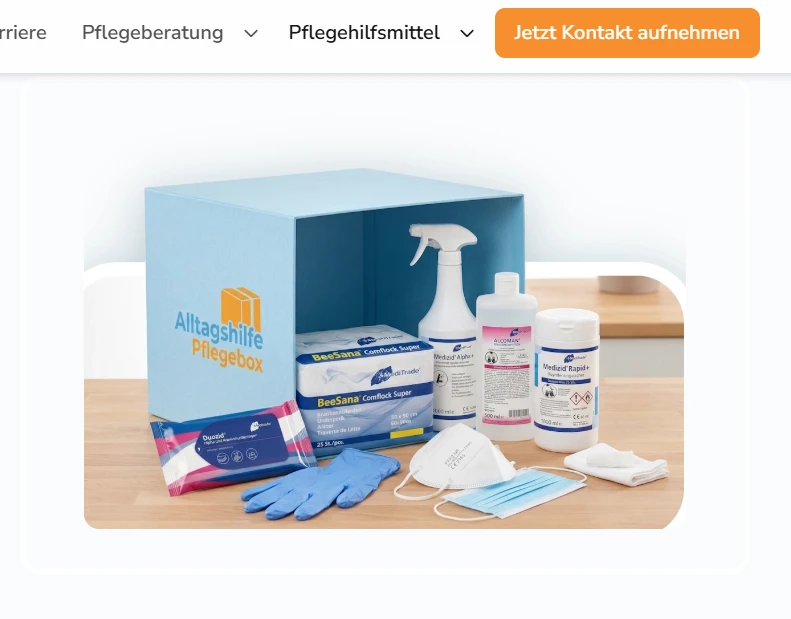
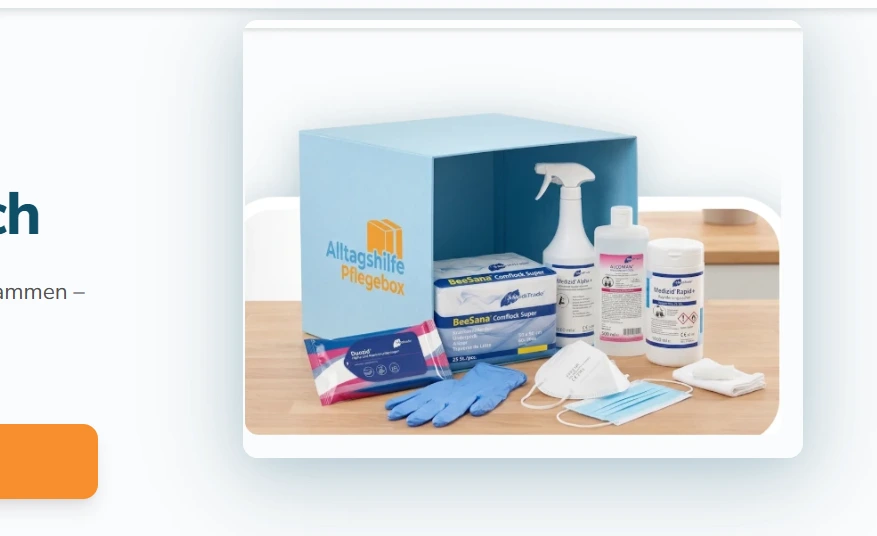
Pflegebox-Hero: neues Flatten-WebP, 25% größer, ohne UI-Rahmen; Konfigurator ohne Box-Bild
Made-with: Cursor

diff --git a/app/pflegebox/page.tsx b/app/pflegebox/page.tsx
@@ -7,10 +7,7 @@ export const metadata: Metadata = {
   description: `Pflegebox-Konfigurator – ${siteConfig.name}. Wählen Sie Ihre Produkte für die Pflegebox.`,
 };
 
-/**
- * Drop-Shadow nur auf einem Wrapper **ohne** overflow-hidden – sonst wird der Schatten am Bild abgeschnitten.
- * Etwas weicher/größer als zuvor, damit er klar über die Motivkante hinaus wirkt.
- */
+/** Schatten am Motiv; kein zusätzlicher sichtbarer Rahmen um die Grafik (natives Bild inkl. weißem Innenrand). */
 const heroImageShadowWrapperClass =
   "[filter:drop-shadow(0_16px_36px_rgba(15,79,104,0.22))_drop-shadow(0_6px_18px_rgba(15,79,104,0.14))]";
 
@@ -24,23 +21,18 @@ export default function PflegeboxPage() {
   return (
     <div id="pflegebox-root" className="min-w-0 w-full max-w-full bg-[#f1f9fb]">
       <div className="flex w-full justify-center px-4 pb-2 pt-4 sm:pb-3 sm:pt-5">
-        <div className="flex w-full max-w-xl justify-center bg-[#f1f9fb] px-2 pb-10 pt-2 sm:pb-12">
-          {/* Außen: Schatten; innen: overflow-hidden + Zoom croppt weißen Bildrand im Asset */}
-          <div
-            className={`mx-auto box-border max-w-full p-4 sm:p-6 ${heroImageShadowWrapperClass}`}
-          >
-            <div className="relative mx-auto aspect-[791/619] h-[min(42vh,320px)] w-auto max-w-full overflow-hidden rounded-2xl bg-[#f1f9fb]">
-              {/* eslint-disable-next-line @next/next/no-img-element -- statische Asset-URL wie Startseiten-Hero */}
-              <img
-                src={PFLEGEBOX_HERO_SRC}
-                alt="Pflegebox – Abbildung der Produktbox"
-                width={791}
-                height={619}
-                decoding="async"
-                fetchPriority="high"
-                className="absolute inset-0 h-full w-full origin-center scale-[1.26] object-cover object-center"
-              />
-            </div>
+        <div className="flex w-full max-w-2xl justify-center bg-[#f1f9fb] px-2 pb-10 pt-2 sm:pb-12">
+          <div className={`mx-auto box-border max-w-full p-4 sm:p-8 ${heroImageShadowWrapperClass}`}>
+            {/* eslint-disable-next-line @next/next/no-img-element -- statische Asset-URL wie Startseiten-Hero */}
+            <img
+              src={PFLEGEBOX_HERO_SRC}
+              alt="Pflegebox – Abbildung der Produktbox"
+              width={877}
+              height={536}
+              decoding="async"
+              fetchPriority="high"
+              className="mx-auto block h-auto max-h-[min(52.5vh,400px)] w-auto max-w-full object-contain object-center"
+            />
           </div>
         </div>
       </div>

diff --git a/components/pflegehilfsmittel/KostenfreiePflegehilfsmittelLanding.tsx b/components/pflegehilfsmittel/KostenfreiePflegehilfsmittelLanding.tsx
@@ -3,7 +3,7 @@ import Link from "next/link";
 import { siteConfig } from "@/config/site";
 import { PFLEGEBOX_KONFIGURATOR_PAGE } from "@/lib/pflegebox-konfigurator-path";
 
-/** Schatten auf Wrapper außerhalb von overflow-hidden, sonst Abschneiden am Bild. */
+/** Schatten am Motiv; kein zusätzlicher Kartenrahmen um die Hero-Grafik. */
 const heroImageShadowWrapperClass =
   "[filter:drop-shadow(0_16px_36px_rgba(15,79,104,0.22))_drop-shadow(0_6px_18px_rgba(15,79,104,0.14))]";
 
@@ -70,22 +70,20 @@ export function KostenfreiePflegehilfsmittelLanding() {
           </div>
 
           <div className="w-full lg:w-1/2">
-            <div className="rounded-2xl bg-[#fafbfc] px-2 pb-10 pt-2 sm:pb-12">
+            <div className="bg-[#fafbfc] px-2 pb-10 pt-2 sm:pb-12">
               <div
-                className={`mx-auto box-border flex max-w-full justify-center p-4 sm:p-5 ${heroImageShadowWrapperClass}`}
+                className={`mx-auto box-border flex max-w-full justify-center p-4 sm:p-6 ${heroImageShadowWrapperClass}`}
               >
-                <div className="relative aspect-[791/619] h-[min(42vh,340px)] w-auto max-w-full overflow-hidden rounded-xl bg-[#fafbfc] lg:h-[min(48vh,380px)]">
-                  {/* eslint-disable-next-line @next/next/no-img-element -- statische Asset-URL, konsistent mit /pflegebox */}
-                  <img
-                    src={KOSTENFREI_HERO_IMG}
-                    alt="Pflegebox – Abbildung der Produktbox"
-                    width={791}
-                    height={619}
-                    decoding="async"
-                    fetchPriority="high"
-                    className="absolute inset-0 h-full w-full origin-center scale-[1.26] object-cover object-center"
-                  />
-                </div>
+                {/* eslint-disable-next-line @next/next/no-img-element -- statische Asset-URL, konsistent mit /pflegebox */}
+                <img
+                  src={KOSTENFREI_HERO_IMG}
+                  alt="Pflegebox – Abbildung der Produktbox"
+                  width={877}
+                  height={536}
+                  decoding="async"
+                  fetchPriority="high"
+                  className="mx-auto block h-auto max-h-[min(52.5vh,425px)] w-auto max-w-full object-contain object-center lg:max-h-[min(60vh,475px)]"
+                />
               </div>
             </div>
           </div>

diff --git a/Konfigurator/style.css b/Konfigurator/style.css
@@ -239,7 +239,7 @@ html.kfg-embed .hero-overlay {
 }
 
 .layout > .panel:first-of-type > h2 {
-  min-height: 141px;
+  min-height: 0;
   display: flex;
   align-items: center;
 }
@@ -1095,24 +1095,11 @@ html.kfg-embed .hero-overlay {
 
 .box-title-row {
   display: flex;
+  flex-wrap: wrap;
   align-items: center;
   justify-content: flex-start;
-  gap: 8px;
-  /* Gleiche Höhe wie Überschrift links; Platz für Box-Grafik in Originalgröße */
-  min-height: 141px;
-}
-
-.box-icon-wrapper {
-  position: relative;
-  margin-left: 0;
-  flex-shrink: 0;
-}
-
-.box-icon {
-  width: 141px;
-  height: 141px;
-  object-fit: contain;
-  display: block;
+  gap: 10px;
+  min-height: 0;
 }
 
 .box-icon-badge {
@@ -1130,6 +1117,16 @@ html.kfg-embed .hero-overlay {
   align-items: center;
   justify-content: center;
   visibility: hidden;
+}
+
+/* Badge neben „Meine Pflegebox“ (ohne Box-Illustration) */
+.box-icon-badge--inline {
+  position: static;
+  top: auto;
+  right: auto;
+  min-width: 22px;
+  height: 22px;
+  padding: 0 6px;
 }
 
 .budget-progress {
@@ -1862,11 +1859,6 @@ html.kfg-embed .hero-overlay {
   .box-title-row {
     min-height: 0;
     max-height: none;
-  }
-
-  .box-icon {
-    height: clamp(88px, 22vw, 120px);
-    max-width: none;
   }
 
   .layout > .panel:first-of-type > h2 {

diff --git a/public/konfigurator/style.css b/public/konfigurator/style.css
@@ -239,7 +239,7 @@ html.kfg-embed .hero-overlay {
 }
 
 .layout > .panel:first-of-type > h2 {
-  min-height: 141px;
+  min-height: 0;
   display: flex;
   align-items: center;
 }
@@ -1095,24 +1095,11 @@ html.kfg-embed .hero-overlay {
 
 .box-title-row {
   display: flex;
+  flex-wrap: wrap;
   align-items: center;
   justify-content: flex-start;
-  gap: 8px;
-  /* Gleiche Höhe wie Überschrift links; Platz für Box-Grafik in Originalgröße */
-  min-height: 141px;
-}
-
-.box-icon-wrapper {
-  position: relative;
-  margin-left: 0;
-  flex-shrink: 0;
-}
-
-.box-icon {
-  width: 141px;
-  height: 141px;
-  object-fit: contain;
-  display: block;
+  gap: 10px;
+  min-height: 0;
 }
 
 .box-icon-badge {
@@ -1130,6 +1117,16 @@ html.kfg-embed .hero-overlay {
   align-items: center;
   justify-content: center;
   visibility: hidden;
+}
+
+/* Badge neben „Meine Pflegebox“ (ohne Box-Illustration) */
+.box-icon-badge--inline {
+  position: static;
+  top: auto;
+  right: auto;
+  min-width: 22px;
+  height: 22px;
+  padding: 0 6px;
 }
 
 .budget-progress {
@@ -1862,11 +1859,6 @@ html.kfg-embed .hero-overlay {
   .box-title-row {
     min-height: 0;
     max-height: none;
-  }
-
-  .box-icon {
-    height: clamp(88px, 22vw, 120px);
-    max-width: none;
   }
 
   .layout > .panel:first-of-type > h2 {

diff --git a/Konfigurator/index.html b/Konfigurator/index.html
@@ -75,10 +75,7 @@
       <div class="box-header">
         <div class="box-title-row">
           <h2>Meine Pflegebox</h2>
-          <div class="box-icon-wrapper">
-            <img src="images/box.webp" alt="Pflegebox-Icon" class="box-icon" id="box-icon" width="141" height="141" decoding="async" />
-            <span class="box-icon-badge" id="box-icon-badge">0</span>
-          </div>
+          <span class="box-icon-badge box-icon-badge--inline" id="box-icon-badge" aria-live="polite">0</span>
         </div>
       </div>
 

diff --git a/public/konfigurator/index.html b/public/konfigurator/index.html
@@ -75,10 +75,7 @@
       <div class="box-header">
         <div class="box-title-row">
           <h2>Meine Pflegebox</h2>
-          <div class="box-icon-wrapper">
-            <img src="images/box.webp" alt="Pflegebox-Icon" class="box-icon" id="box-icon" width="141" height="141" decoding="async" />
-            <span class="box-icon-badge" id="box-icon-badge">0</span>
-          </div>
+          <span class="box-icon-badge box-icon-badge--inline" id="box-icon-badge" aria-live="polite">0</span>
         </div>
       </div>
 
